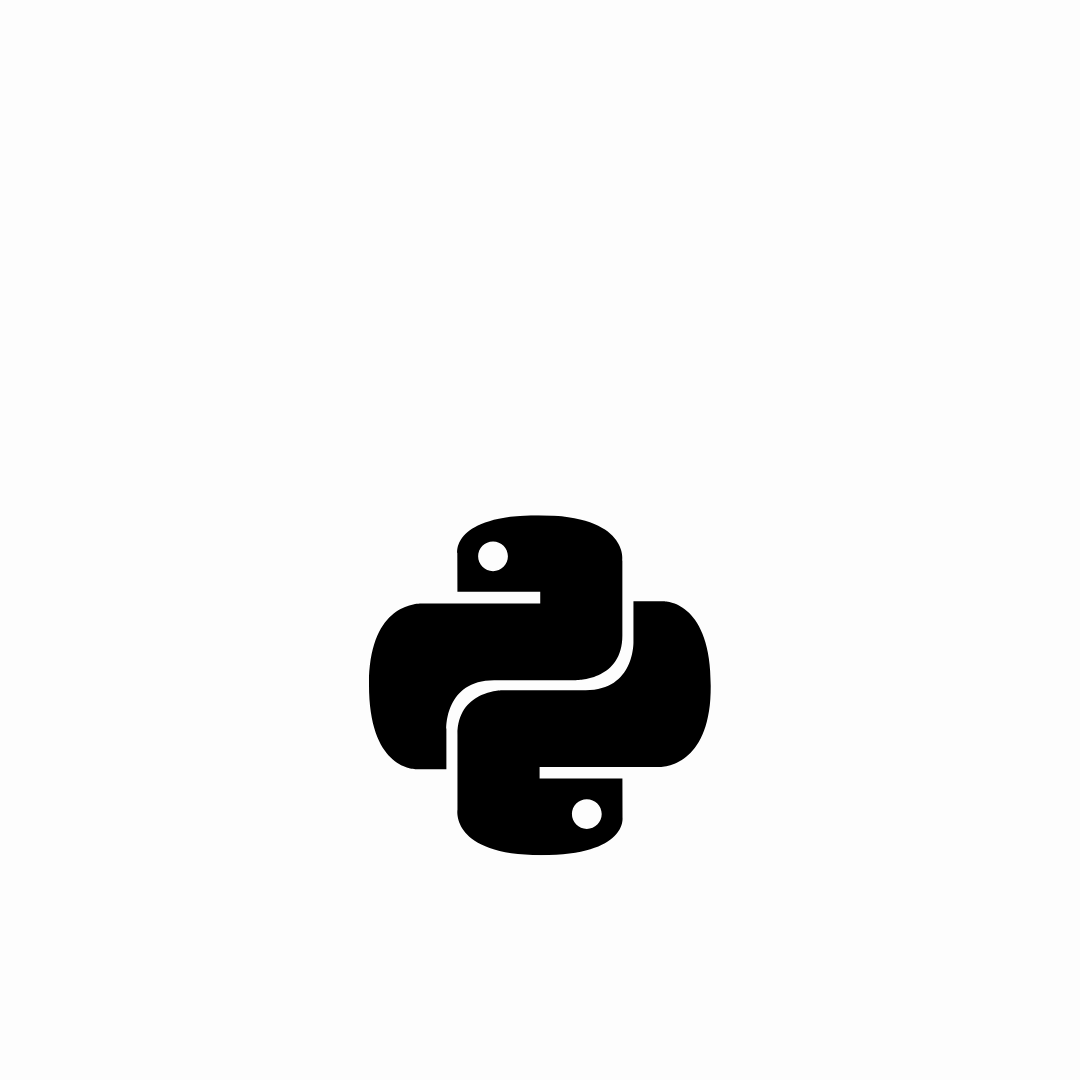
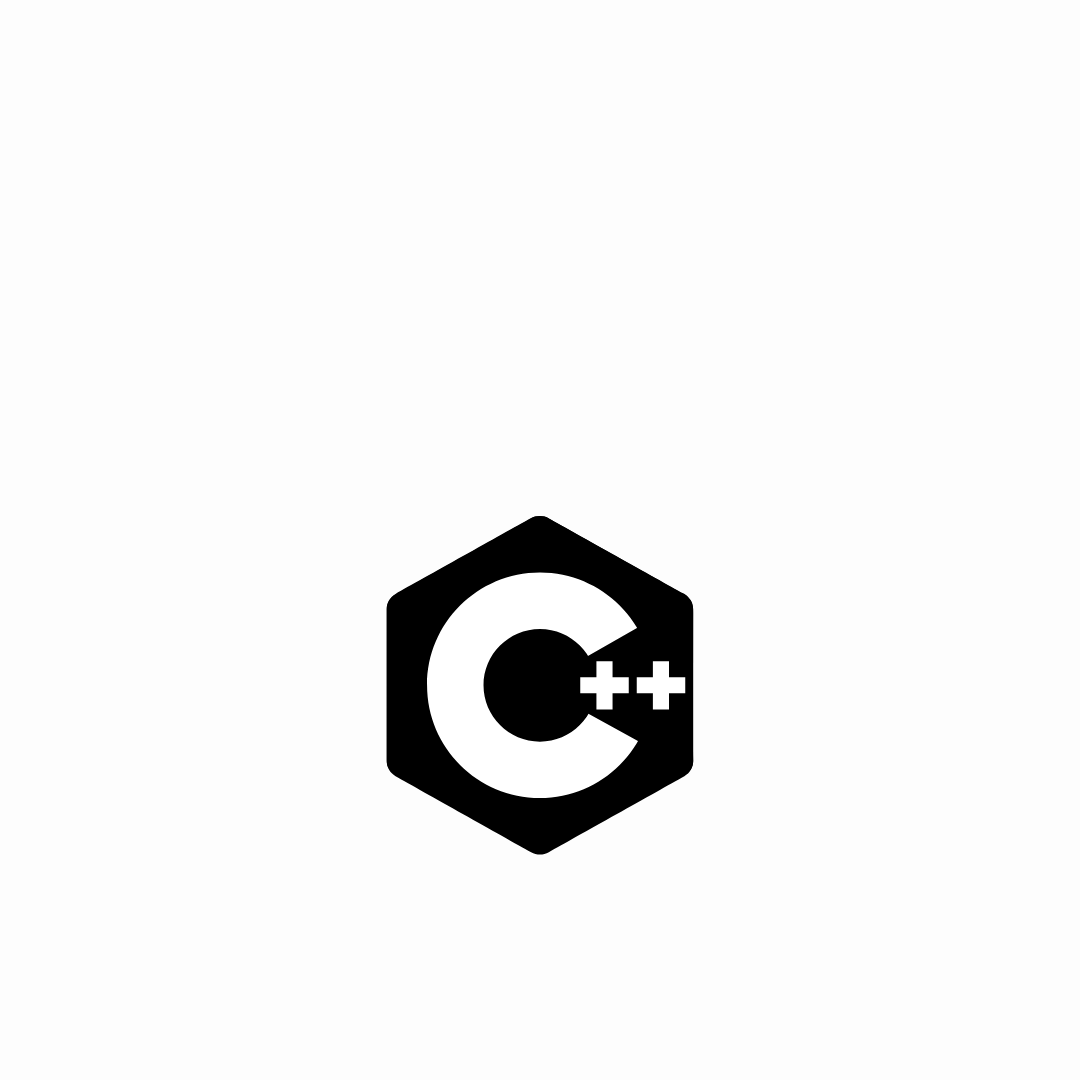
added programming languages

Changed region(s): [[0.3361, 0.4583, 0.6722, 0.7944]]

diff --git a/main.py b/main.py
@@ -3,10 +3,10 @@ from datetime import datetime
 import os 
 
 # constants
-languages = ["c", "cpp", "java", "python"]
+languages = ["c", "cpp", "cs", "go", "java", "javascript", "python", "tips"]
 titles_path = "titles/"
-font_size = 75 # 55
-font_family = "Post.otf"
+font_size = 100 # 55
+font_family = "Archive.otf"
 top_word_position = 5
 middle_word_position = 4
 bottom_word_position = 3
@@ -23,10 +23,10 @@ def print_invalid():
     print("\n! ! !\tInvalid Input\t! ! !")
 
 def validate_title_length(title_choice):
-    if(len(title_choice) > 11 or len(title_choice) <= 2):
-        print_invalid()
-        print("\nTitle Is Too Long\n")
-        return False
+    # if(len(title_choice) > 11 or len(title_choice) <= 2):
+    #     print_invalid()
+    #     print("\nTitle Is Too Long\n")
+    #     return False
     title_split = title_choice.split(" ")
     if(len(title_split) == 1):
         title = " ".join(title_split[0].upper())
@@ -42,7 +42,6 @@ def validate_title_length(title_choice):
 def count_folders_in(path):
     return (len(next(os.walk(path))[1]))
 
-
 def draw_this(img, text, position):
     I1 = ImageDraw.Draw(img)
     W, H = (img.width, img.height)
@@ -52,6 +51,9 @@ def draw_this(img, text, position):
     I1.text(((W-w)/2, (H-h)/int(position)), text,
     font=myFont,  fill=(0, 0, 0),
     stroke_fill="black")
+
+
+
 
 
 def draw_title(img, title):
